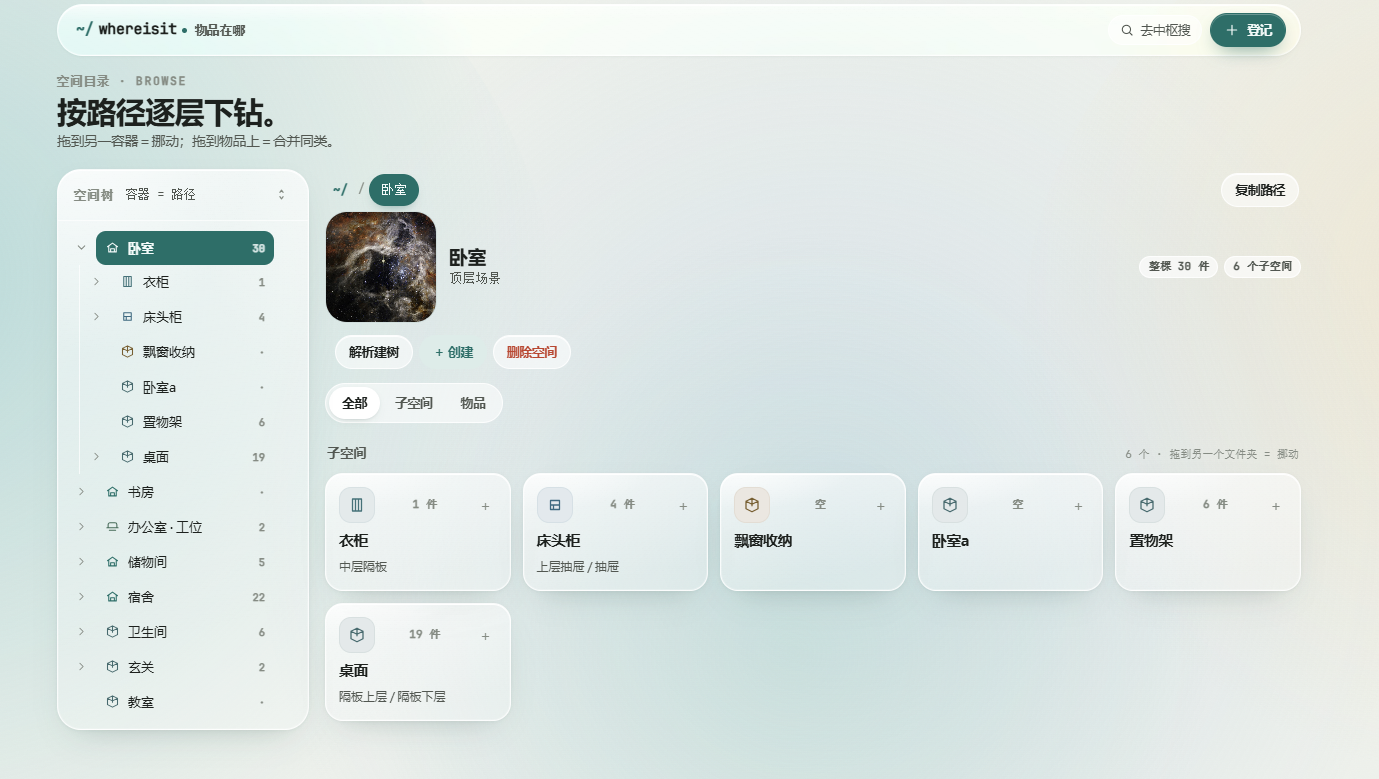
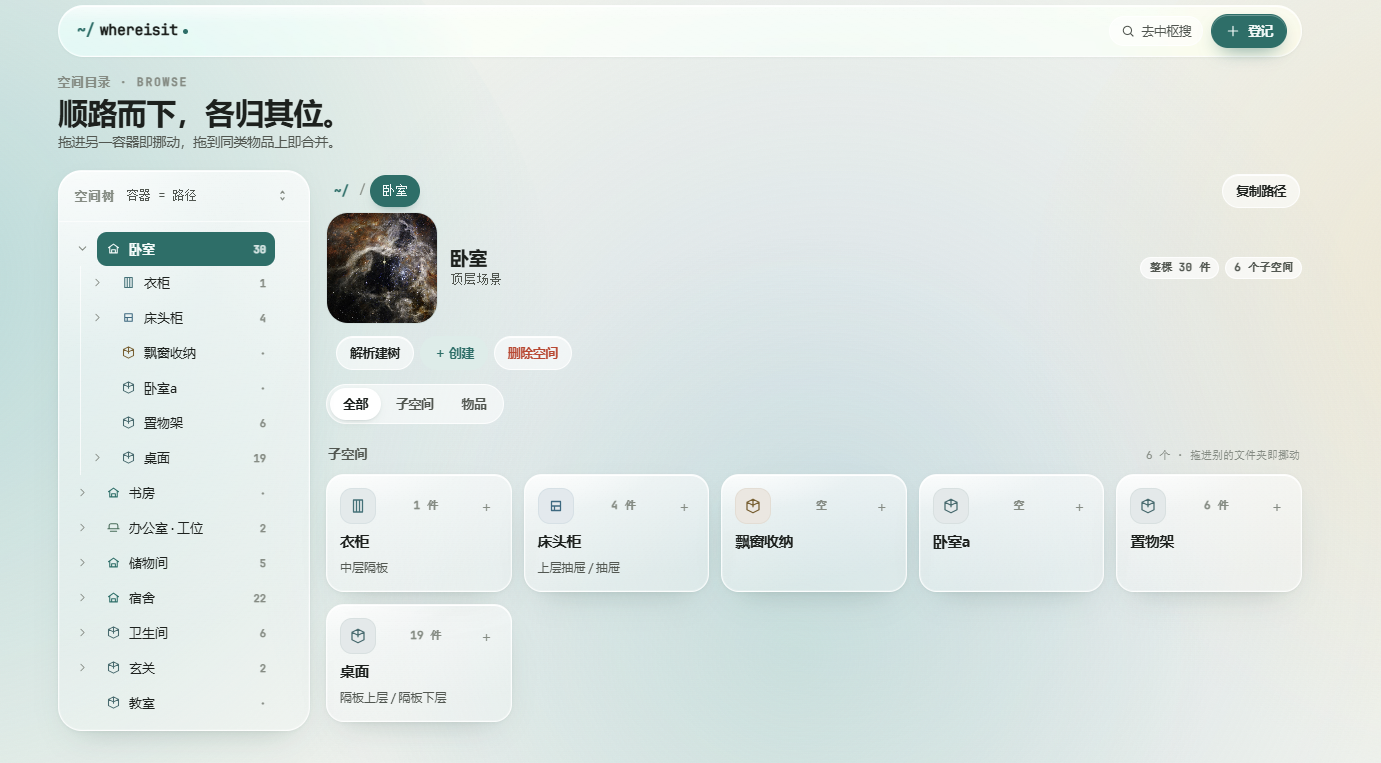
copy: drop trailing period in LLM hint; README shows both settings shots side by side

diff --git a/frontend/src/i18n/dict.ts b/frontend/src/i18n/dict.ts
@@ -177,7 +177,7 @@ export const dict: Record<Lang, Record<string, string>> = {
     'llm.addItemPh': '物品名',
     'llm.cfg': '大模型（AI 助理）',
     'llm.quick': '快捷厂商：',
-    'llm.cfgHint': '填一个 OpenAI 兼容接口（含本地 ollama）。',
+    'llm.cfgHint': '填一个 OpenAI 兼容接口（含本地 ollama）',
     'llm.on': '已配置',
     'llm.onModel': '已配置 {model} 模型',
     'llm.off': '未配置',

diff --git a/README.md b/README.md
@@ -62,9 +62,9 @@
 
 语言 / 主题 / 大模型(供应商快捷键 + Key 加密存储永不回显)/ 局域网地址 / 访问令牌(复制、下载 `.token`、轮换)/ 数据导出导入 / 多用户管理(每人独立令牌与数据):
 
-<p align="center">
-  <img src="docs/screenshots/settings1.png" alt="设置" width="480">
-</p>
+| 设置 · 偏好与模型 | 设置 · 数据与用户 |
+|---|---|
+| ![设置](docs/screenshots/settings1.png) | ![设置](docs/screenshots/settings2.png) |
 
 ## 快速开始
 
